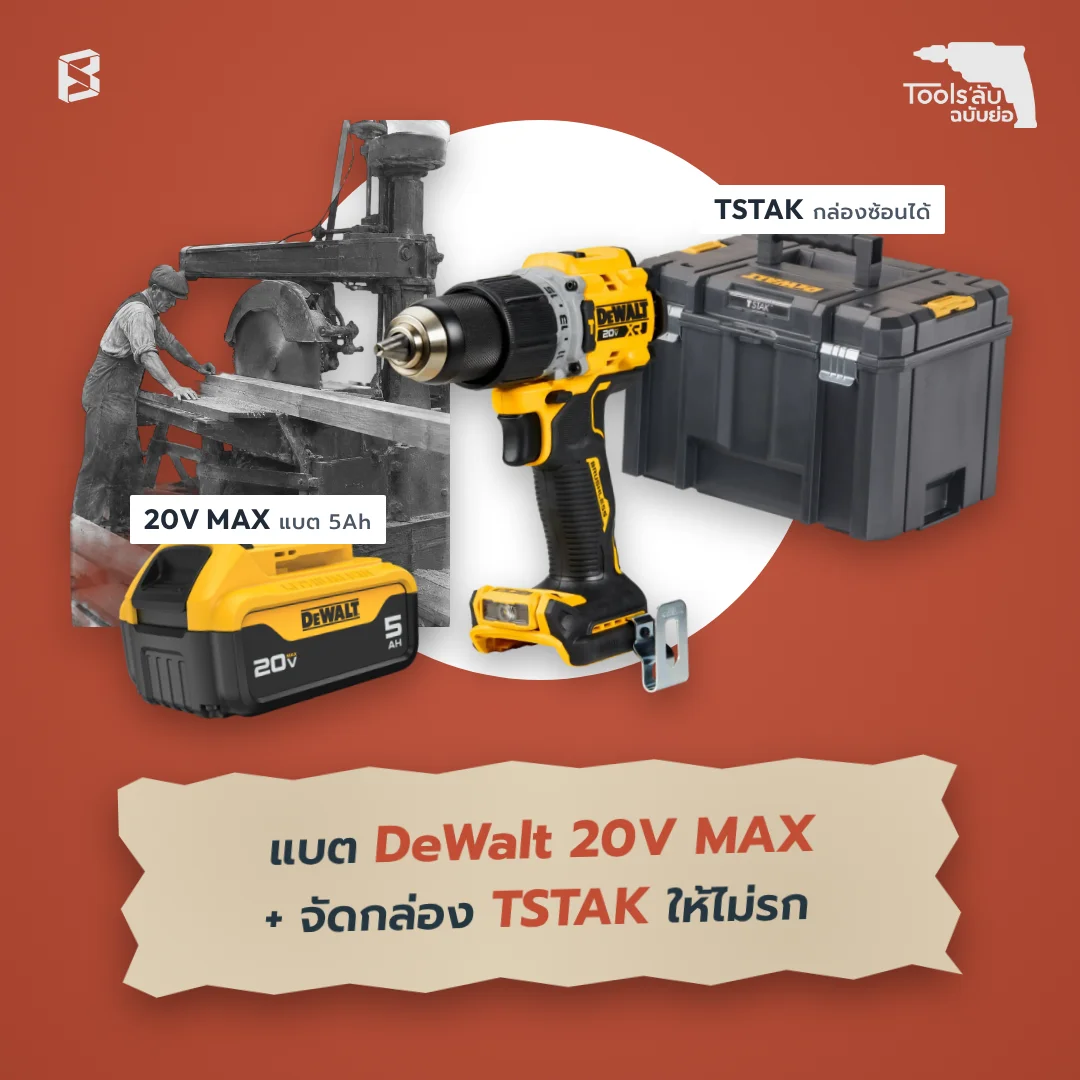
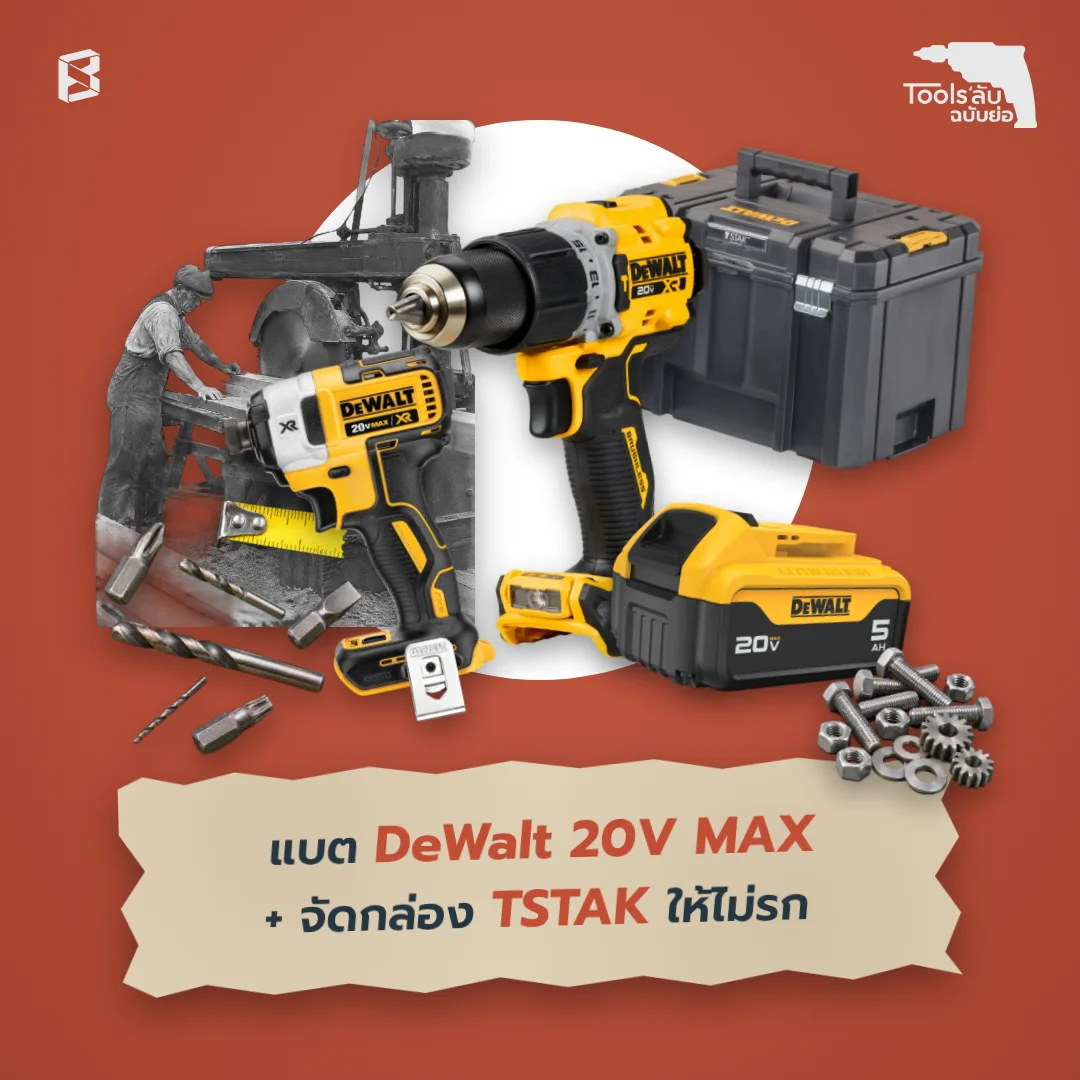
Brand covers: dense Tools ลับ-style collages
Rebuilt the five brand covers as centred, radiating collages like the
Tools ลับ series: hero tool over the white circle, more official product
photos (batteries, impact drivers, second tools, boxes), a vintage B/W
photo, and unbranded props (blueprints, gears, armature, caliper, bits).
Every item has a drop shadow. Cover alt text updated.

Claude-Session: https://claude.ai/code/session_019o1owF4k6zki7iDKZ7Hwnj

diff --git a/content/articles/osuka-cordless-tools-guide.md b/content/articles/osuka-cordless-tools-guide.md
@@ -4,7 +4,7 @@ description: เครื่องมือไร้สาย OSUKA ทำไม
 date: 2026-11-24
 pillar: product
 cover: /articles/brand-osuka.webp
-coverAlt: ปกบทความเครื่องมือไร้สาย OSUKA: สว่านไร้สาย OSUKA 20V พร้อมแบต และภาพขาวดำช่างไทยยุคเก่า
+coverAlt: ปกบทความเครื่องมือไร้สาย OSUKA: คอลลาจสว่าน สว่านโรตารี่ บล็อกกระแทก และหินเจียรไร้สาย OSUKA 20V พร้อมไม้บรรทัดพับ และภาพขาวดำช่างไทยยุคเก่า
 keywords: เครื่องมือไร้สาย OSUKA, สว่านไร้สาย OSUKA, แบต OSUKA 20V, กล่องเครื่องมือ OSUKA, CONNECT+BOX, ที่เก็บแบต OSUKA, จัดเก็บเครื่องมือช่าง
 ---
 

diff --git a/content/articles/dewalt-20v-max-tstak-guide.md b/content/articles/dewalt-20v-max-tstak-guide.md
@@ -4,7 +4,7 @@ description: DeWalt 20V MAX, 12V MAX และ FLEXVOLT ต่างกันย
 date: 2026-11-24
 pillar: product
 cover: /articles/brand-dewalt.webp
-coverAlt: ปกบทความ DeWalt 20V MAX: สว่าน 20V MAX XR แบต 20V MAX 5Ah กล่อง TSTAK และภาพขาวดำช่างไม้กับเลื่อยแขนยุคเก่า
+coverAlt: ปกบทความ DeWalt 20V MAX: คอลลาจสว่าน 20V MAX XR ไขควงกระแทก แบต 20V MAX 5Ah กล่อง TSTAK ดอกสว่าน และภาพขาวดำช่างไม้กับเลื่อยแขนยุคเก่า
 keywords: DeWalt 20V, DeWalt 20V MAX, TSTAK, ToughSystem 2.0, DeWalt FLEXVOLT, DeWalt 12V, กล่องเครื่องมือ DeWalt, ที่เก็บแบต DeWalt
 ---
 
